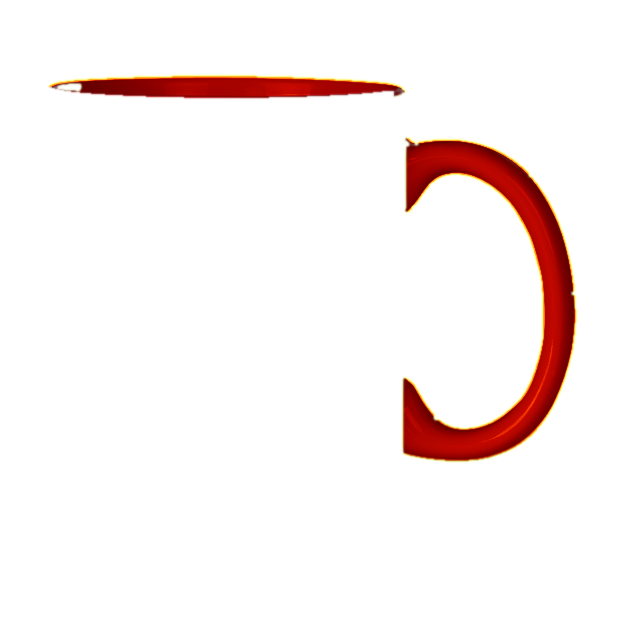
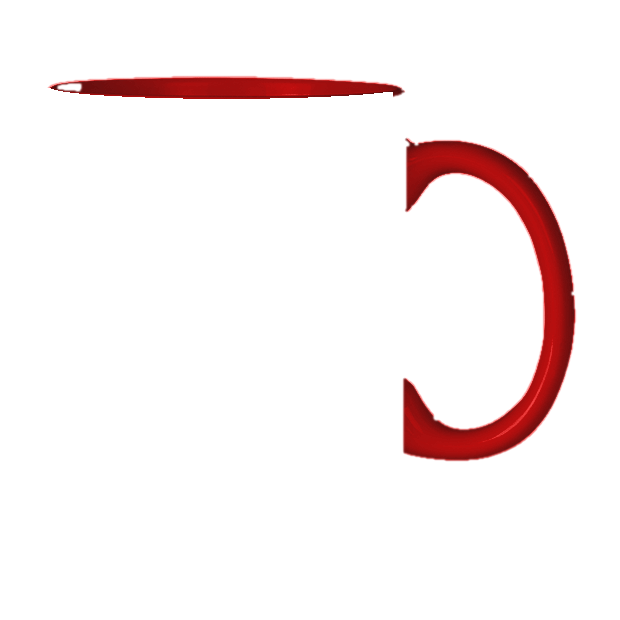
Mug colours: clean, soft-edged handle and inside fill using the shading of Printrove's coloured-mug photo
Claude-Session: https://claude.ai/code/session_01EaxmJeYfT8MoGaNTYhuNX2

diff --git a/team/index.html b/team/index.html
@@ -144,5 +144,5 @@ Anita: Thank you for an amazing year!"></textarea>
 </body>
 </html>
 <script>window.NV_TRAITS = [{"k": "coffee", "l": "Coffee lover", "svg": "<path d=\"M10 2v2\" /> <path d=\"M14 2v2\" /> <path d=\"M16 8a1 1 0 0 1 1 1v8a4 4 0 0 1-4 4H7a4 4 0 0 1-4-4V9a1 1 0 0 1 1-1h14a4 4 0 1 1 0 8h-1\" /> <path d=\"M6 2v2\" />"}, {"k": "cup-soda", "l": "Chai person", "svg": "<path d=\"m6 8 1.75 12.28a2 2 0 0 0 2 1.72h4.54a2 2 0 0 0 2-1.72L18 8\" /> <path d=\"M5 8h14\" /> <path d=\"M7 15a6.47 6.47 0 0 1 5 0 6.47 6.47 0 0 0 5 0\" /> <path d=\"m12 8 1-6h2\" />"}, {"k": "plane", "l": "Traveller", "svg": "<path d=\"M17.8 19.2 16 11l3.5-3.5C21 6 21.5 4 21 3c-1-.5-3 0-4.5 1.5L13 8 4.8 6.2c-.5-.1-.9.1-1.1.5l-.3.5c-.2.5-.1 1 .3 1.3L9 12l-2 3H4l-1 1 3 2 2 3 1-1v-3l3-2 3.5 5.3c.3.4.8.5 1.3.3l.5-.2c.4-.3.6-.7.5-1.2z\" />"}, {"k": "mountain", "l": "Hiker", "svg": "<path d=\"m8 3 4 8 5-5 5 15H2L8 3z\" />"}, {"k": "dog", "l": "Dog parent", "svg": "<path d=\"M11.25 16.25h1.5L12 17z\" /> <path d=\"M16 14v.5\" /> <path d=\"M4.42 11.247A13.152 13.152 0 0 0 4 14.556C4 18.728 7.582 21 12 21s8-2.272 8-6.444a11.702 11.702 0 0 0-.493-3.309\" /> <path d=\"M8 14v.5\" /> <path d=\"M8.5 8.5c-.384 1.05-1.083 2.028-2.344 2.5-1.931.722-3.576-.297-3.656-1-.113-.994 1.177-6.53 4-7 1.923-.321 3.651.845 3.651 2.235A7.497 7.497 0 0 1 14 5.277c0-1.39 1.844-2.598 3.767-2.277 2.823.47 4.113 6.006 4 7-.08.703-1.725 1.722-3.656 1-1.261-.472-1.855-1.45-2.239-2.5\" />"}, {"k": "cat", "l": "Cat parent", "svg": "<path d=\"M12 5c.67 0 1.35.09 2 .26 1.78-2 5.03-2.84 6.42-2.26 1.4.58-.42 7-.42 7 .57 1.07 1 2.24 1 3.44C21 17.9 16.97 21 12 21s-9-3-9-7.56c0-1.25.5-2.4 1-3.44 0 0-1.89-6.42-.5-7 1.39-.58 4.72.23 6.5 2.23A9.04 9.04 0 0 1 12 5Z\" /> <path d=\"M8 14v.5\" /> <path d=\"M16 14v.5\" /> <path d=\"M11.25 16.25h1.5L12 17l-.75-.75Z\" />"}, {"k": "book-open", "l": "Bookworm", "svg": "<path d=\"M12 5v16\" /> <path d=\"M20.001 19A2 2 0 0022 17V5a2 2 0 00-1.999-2L16 3.002A5 5 0 0012 5a5 5 0 00-4-2H4a2 2 0 00-2 2v12a2 2 0 001.999 2H8a5 5 0 014 2 5 5 0 014-2z\" />"}, {"k": "gamepad-2", "l": "Gamer", "svg": "<line x1=\"6\" x2=\"10\" y1=\"11\" y2=\"11\" /> <line x1=\"8\" x2=\"8\" y1=\"9\" y2=\"13\" /> <line x1=\"15\" x2=\"15.01\" y1=\"12\" y2=\"12\" /> <line x1=\"18\" x2=\"18.01\" y1=\"10\" y2=\"10\" /> <path d=\"M17.32 5H6.68a4 4 0 0 0-3.978 3.59c-.006.052-.01.101-.017.152C2.604 9.416 2 14.456 2 16a3 3 0 0 0 3 3c1 0 1.5-.5 2-1l1.414-1.414A2 2 0 0 1 9.828 16h4.344a2 2 0 0 1 1.414.586L17 18c.5.5 1 1 2 1a3 3 0 0 0 3-3c0-1.545-.604-6.584-.685-7.258-.007-.05-.011-.1-.017-.151A4 4 0 0 0 17.32 5z\" />"}, {"k": "music", "l": "Music lover", "svg": "<path d=\"M21 16V3a1 1 0 0 0-1.28-.96l-10 2.917a1 1 0 0 0-.72.96V19\" /> <circle cx=\"18\" cy=\"16\" r=\"3\" /> <circle cx=\"6\" cy=\"19\" r=\"3\" />"}, {"k": "headphones", "l": "Podcast fan", "svg": "<path d=\"M3 14h3a2 2 0 0 1 2 2v3a2 2 0 0 1-2 2H5a2 2 0 0 1-2-2v-7a9 9 0 0 1 18 0v7a2 2 0 0 1-2 2h-1a2 2 0 0 1-2-2v-3a2 2 0 0 1 2-2h3\" />"}, {"k": "guitar", "l": "Musician", "svg": "<path d=\"m11.9 12.1 4.514-4.514\" /> <path d=\"M20.1 2.3a1 1 0 0 0-1.4 0l-1.114 1.114A2 2 0 0 0 17 4.828v1.344a2 2 0 0 1-.586 1.414A2 2 0 0 1 17.828 7h1.344a2 2 0 0 0 1.414-.586L21.7 5.3a1 1 0 0 0 0-1.4z\" /> <path d=\"m6 16 2 2\" /> <path d=\"M8.23 9.85A3 3 0 0 1 11 8a5 5 0 0 1 5 5 3 3 0 0 1-1.85 2.77l-.92.38A2 2 0 0 0 12 18a4 4 0 0 1-4 4 6 6 0 0 1-6-6 4 4 0 0 1 4-4 2 2 0 0 0 1.85-1.23z\" />"}, {"k": "dumbbell", "l": "Gym regular", "svg": "<path d=\"M17.596 12.768a2 2 0 1 0 2.829-2.829l-1.768-1.767a2 2 0 0 0 2.828-2.829l-2.828-2.828a2 2 0 0 0-2.829 2.828l-1.767-1.768a2 2 0 1 0-2.829 2.829z\" /> <path d=\"m2.5 21.5 1.4-1.4\" /> <path d=\"m20.1 3.9 1.4-1.4\" /> <path d=\"M5.343 21.485a2 2 0 1 0 2.829-2.828l1.767 1.768a2 2 0 1 0 2.829-2.829l-6.364-6.364a2 2 0 1 0-2.829 2.829l1.768 1.767a2 2 0 0 0-2.828 2.829z\" /> <path d=\"m9.6 14.4 4.8-4.8\" />"}, {"k": "bike", "l": "Cyclist", "svg": "<circle cx=\"18.5\" cy=\"17.5\" r=\"3.5\" /> <circle cx=\"5.5\" cy=\"17.5\" r=\"3.5\" /> <circle cx=\"15\" cy=\"5\" r=\"1\" /> <path d=\"M12 17.5V14l-3-3 4-3 2 3h2\" />"}, {"k": "footprints", "l": "Runner", "svg": "<path d=\"M4 16v-2.38C4 11.5 2.97 10.5 3 8c.03-2.72 1.49-6 4.5-6C9.37 2 10 3.8 10 5.5c0 3.11-2 5.66-2 8.68V16a2 2 0 1 1-4 0Z\" /> <path d=\"M20 20v-2.38c0-2.12 1.03-3.12 1-5.62-.03-2.72-1.49-6-4.5-6C14.63 6 14 7.8 14 9.5c0 3.11 2 5.66 2 8.68V20a2 2 0 1 0 4 0Z\" /> <path d=\"M16 17h4\" /> <path d=\"M4 13h4\" />"}, {"k": "volleyball", "l": "Sports fan", "svg": "<path d=\"M11 7a16 16 20 0 1 10.98 4.362\" /> <path d=\"M12 12a13 13 0 0 1-8.66 5\" /> <path d=\"M16.83 13.634a16 16 0 0 1-9.267 7.328\" /> <path d=\"M20.66 17A13 13 0 0 0 12 12a13 13 0 0 1 0-10\" /> <path d=\"M8.17 15.366a16 16 0 0 1-1.713-11.69\" /> <circle cx=\"12\" cy=\"12\" r=\"10\" />"}, {"k": "trophy", "l": "Champion", "svg": "<path d=\"M10 14.66V17a1 1 0 0 1-1 1 2 2 0 0 0-2 2v2\" /> <path d=\"M14 14.66V17a1 1 0 0 0 1 1 2 2 0 0 1 2 2v2\" /> <path d=\"M17.916 10H19.5A2.5 2.5 0 0 0 22 7.5V5a1 1 0 0 0-1-1h-3\" /> <path d=\"M4 22h16\" /> <path d=\"M6 9a6 6 0 0 0 12 0V3a1 1 0 0 0-1-1H7a1 1 0 0 0-1 1z\" /> <path d=\"M6.084 10H4.5A2.5 2.5 0 0 1 2 7.5V5a1 1 0 0 1 1-1h3\" />"}, {"k": "sprout", "l": "Plant parent", "svg": "<path d=\"M14 9.536V7a4 4 0 0 1 4-4h1.5a.5.5 0 0 1 .5.5V5a4 4 0 0 1-4 4 4 4 0 0 0-4 4c0 2 1 3 1 5a5 5 0 0 1-1 3\" /> <path d=\"M4 9a5 5 0 0 1 8 4 5 5 0 0 1-8-4\" /> <path d=\"M5 21h14\" />"}, {"k": "camera", "l": "Photographer", "svg": "<path d=\"M13.997 4a2 2 0 0 1 1.76 1.05l.486.9A2 2 0 0 0 18.003 7H20a2 2 0 0 1 2 2v9a2 2 0 0 1-2 2H4a2 2 0 0 1-2-2V9a2 2 0 0 1 2-2h1.997a2 2 0 0 0 1.759-1.048l.489-.904A2 2 0 0 1 10.004 4z\" /> <circle cx=\"12\" cy=\"13\" r=\"3\" />"}, {"k": "code", "l": "Coder", "svg": "<path d=\"m16 18 6-6-6-6\" /> <path d=\"m8 6-6 6 6 6\" />"}, {"k": "palette", "l": "Creative", "svg": "<path d=\"M12 22a1 1 0 0 1 0-20 10 9 0 0 1 10 9 5 5 0 0 1-5 5h-2.25a1.75 1.75 0 0 0-1.4 2.8l.3.4a1.75 1.75 0 0 1-1.4 2.8z\" /> <circle cx=\"13.5\" cy=\"6.5\" r=\".5\" fill=\"currentColor\" /> <circle cx=\"17.5\" cy=\"10.5\" r=\".5\" fill=\"currentColor\" /> <circle cx=\"6.5\" cy=\"12.5\" r=\".5\" fill=\"currentColor\" /> <circle cx=\"8.5\" cy=\"7.5\" r=\".5\" fill=\"currentColor\" />"}, {"k": "chef-hat", "l": "Foodie", "svg": "<path d=\"M10 11v5\" /> <path d=\"M14 11v5\" /> <path d=\"M6 12.65c0-.457-.316-.844-.727-1.041A4 4 0 017.52 4.034a1.53 1.53 0 001.367-.547 4 4 0 016.225 0 1.53 1.53 0 001.367.547 4 4 0 012.248 7.575c-.411.197-.727.584-.727 1.04V19a2 2 0 01-2 2H8a2 2 0 01-2-2z\" /> <path d=\"M6 16h12\" />"}, {"k": "pizza", "l": "Pizza lover", "svg": "<path d=\"m12 14-1 1\" /> <path d=\"m13.75 18.25-1.25 1.42\" /> <path d=\"M17.775 5.654a15.68 15.68 0 0 0-12.121 12.12\" /> <path d=\"M18.8 9.3a1 1 0 0 0 2.1 7.7\" /> <path d=\"M21.964 20.732a1 1 0 0 1-1.232 1.232l-18-5a1 1 0 0 1-.695-1.232A19.68 19.68 0 0 1 15.732 2.037a1 1 0 0 1 1.232.695z\" />"}, {"k": "wine", "l": "Party starter", "svg": "<path d=\"M8 22h8\" /> <path d=\"M7 10h10\" /> <path d=\"M12 15v7\" /> <path d=\"M12 15a5 5 0 0 0 5-5c0-2-.5-4-2-8H9c-1.5 4-2 6-2 8a5 5 0 0 0 5 5Z\" />"}, {"k": "film", "l": "Movie buff", "svg": "<rect width=\"18\" height=\"18\" x=\"3\" y=\"3\" rx=\"2\" /> <path d=\"M7 3v18\" /> <path d=\"M3 7.5h4\" /> <path d=\"M3 12h18\" /> <path d=\"M3 16.5h4\" /> <path d=\"M17 3v18\" /> <path d=\"M17 7.5h4\" /> <path d=\"M17 16.5h4\" />"}, {"k": "moon", "l": "Night owl", "svg": "<path d=\"M20.985 12.486a9 9 0 1 1-9.473-9.472c.405-.022.617.46.402.803a6 6 0 0 0 8.268 8.268c.344-.215.825-.004.803.401\" />"}, {"k": "sun", "l": "Early bird", "svg": "<circle cx=\"12\" cy=\"12\" r=\"4\" /> <path d=\"M12 2v2\" /> <path d=\"M12 20v2\" /> <path d=\"m4.93 4.93 1.41 1.41\" /> <path d=\"m17.66 17.66 1.41 1.41\" /> <path d=\"M2 12h2\" /> <path d=\"M20 12h2\" /> <path d=\"m6.34 17.66-1.41 1.41\" /> <path d=\"m19.07 4.93-1.41 1.41\" />"}, {"k": "briefcase", "l": "Hustler", "svg": "<path d=\"M16 20V4a2 2 0 0 0-2-2h-4a2 2 0 0 0-2 2v16\" /> <rect width=\"20\" height=\"14\" x=\"2\" y=\"6\" rx=\"2\" />"}, {"k": "brain", "l": "Big thinker", "svg": "<path d=\"M12 18V5\" /> <path d=\"M15 13a4.17 4.17 0 01-3-4 4.17 4.17 0 01-3 4\" /> <path d=\"M17.707 6.294A3 3 0 1012 5a3 3 0 10-5.707 1.294\" /> <path d=\"M17.996 5.125a4 4 0 012.526 5.77\" /> <path d=\"M18 18a4 4 0 002-7.465\" /> <path d=\"M19.967 17.482a4 4 0 11-7.967.517 4 4 0 11-7.967-.517\" /> <path d=\"M6 18a4 4 0 01-2-7.465\" /> <path d=\"M6.004 5.125a4 4 0 00-2.526 5.77\" />"}, {"k": "rocket", "l": "Go-getter", "svg": "<path d=\"M12 15v5s3.03-.55 4-2c1.08-1.62 0-5 0-5\" /> <path d=\"M4.5 16.5c-1.5 1.26-2 5-2 5s3.74-.5 5-2c.71-.84.7-2.13-.09-2.91a2.18 2.18 0 0 0-2.91-.09\" /> <path d=\"M9 12a22 22 0 0 1 2-3.95A12.88 12.88 0 0 1 22 2c0 2.72-.78 7.5-6 11a22.4 22.4 0 0 1-4 2z\" /> <path d=\"M9 12H4s.55-3.03 2-4c1.62-1.08 5 .05 5 .05\" />"}, {"k": "laugh", "l": "Funny one", "svg": "<path d=\"M15 10V9\" /> <path d=\"M7.084 14.302a5.12 5.12 0 009.833 0 .24.24 0 00-.235-.302H7.32a.24.24 0 00-.235.302\" /> <path d=\"M9 10V9\" /> <circle cx=\"12\" cy=\"12\" r=\"10\" />"}, {"k": "heart", "l": "Big heart", "svg": "<path d=\"M2 9.5a5.5 5.5 0 0 1 9.591-3.676.56.56 0 0 0 .818 0A5.49 5.49 0 0 1 22 9.5c0 2.29-1.5 4-3 5.5l-5.492 5.313a2 2 0 0 1-3 .019L5 15c-1.5-1.5-3-3.2-3-5.5\" />"}, {"k": "smile", "l": "Optimist", "svg": "<path d=\"M15 10V9\" /> <path d=\"M16.472 15a6 6 0 01-8.943 0\" /> <path d=\"M9 10V9\" /> <circle cx=\"12\" cy=\"12\" r=\"10\" />"}, {"k": "baby", "l": "New parent", "svg": "<path d=\"M10 16c.5.3 1.2.5 2 .5s1.5-.2 2-.5\" /> <path d=\"M15 12h.01\" /> <path d=\"M19.38 6.813A9 9 0 0 1 20.8 10.2a2 2 0 0 1 0 3.6 9 9 0 0 1-17.6 0 2 2 0 0 1 0-3.6A9 9 0 0 1 12 3c2 0 3.5 1.1 3.5 2.5s-.9 2.5-2 2.5c-.8 0-1.5-.4-1.5-1\" /> <path d=\"M9 12h.01\" />"}, {"k": "graduation-cap", "l": "Lifelong learner", "svg": "<path d=\"M21.42 10.922a1 1 0 0 0-.019-1.838L12.83 5.18a2 2 0 0 0-1.66 0L2.6 9.08a1 1 0 0 0 0 1.832l8.57 3.908a2 2 0 0 0 1.66 0z\" /> <path d=\"M22 10v6\" /> <path d=\"M6 12.5V16a6 3 0 0 0 12 0v-3.5\" />"}, {"k": "stethoscope", "l": "Healer", "svg": "<path d=\"M11 2v2\" /> <path d=\"M5 2v2\" /> <path d=\"M5 3H4a2 2 0 0 0-2 2v4a6 6 0 0 0 12 0V5a2 2 0 0 0-2-2h-1\" /> <path d=\"M8 15a6 6 0 0 0 12 0v-3\" /> <circle cx=\"20\" cy=\"10\" r=\"2\" />"}, {"k": "tent", "l": "Explorer", "svg": "<path d=\"M3.5 21 14 3\" /> <path d=\"M20.5 21 10 3\" /> <path d=\"M15.5 21 12 15l-3.5 6\" /> <path d=\"M2 21h20\" />"}]; window.NV_TEAM = {"tiers":[[25,379],[50,349],[100,319]],"small":519,"wa":"919880000990","api":""};</script>
-<script defer src="/assets/mugdesign.js?v=757e830b"></script>
+<script defer src="/assets/mugdesign.js?v=9beb7631"></script>
 <script defer src="/assets/team.js?v=6e60c9ab"></script>

diff --git a/custom-mug/index.html b/custom-mug/index.html
@@ -122,5 +122,5 @@
 </body>
 </html>
 <script>window.NV_TRAITS = [{"k": "coffee", "l": "Coffee lover", "svg": "<path d=\"M10 2v2\" /> <path d=\"M14 2v2\" /> <path d=\"M16 8a1 1 0 0 1 1 1v8a4 4 0 0 1-4 4H7a4 4 0 0 1-4-4V9a1 1 0 0 1 1-1h14a4 4 0 1 1 0 8h-1\" /> <path d=\"M6 2v2\" />"}, {"k": "cup-soda", "l": "Chai person", "svg": "<path d=\"m6 8 1.75 12.28a2 2 0 0 0 2 1.72h4.54a2 2 0 0 0 2-1.72L18 8\" /> <path d=\"M5 8h14\" /> <path d=\"M7 15a6.47 6.47 0 0 1 5 0 6.47 6.47 0 0 0 5 0\" /> <path d=\"m12 8 1-6h2\" />"}, {"k": "plane", "l": "Traveller", "svg": "<path d=\"M17.8 19.2 16 11l3.5-3.5C21 6 21.5 4 21 3c-1-.5-3 0-4.5 1.5L13 8 4.8 6.2c-.5-.1-.9.1-1.1.5l-.3.5c-.2.5-.1 1 .3 1.3L9 12l-2 3H4l-1 1 3 2 2 3 1-1v-3l3-2 3.5 5.3c.3.4.8.5 1.3.3l.5-.2c.4-.3.6-.7.5-1.2z\" />"}, {"k": "mountain", "l": "Hiker", "svg": "<path d=\"m8 3 4 8 5-5 5 15H2L8 3z\" />"}, {"k": "dog", "l": "Dog parent", "svg": "<path d=\"M11.25 16.25h1.5L12 17z\" /> <path d=\"M16 14v.5\" /> <path d=\"M4.42 11.247A13.152 13.152 0 0 0 4 14.556C4 18.728 7.582 21 12 21s8-2.272 8-6.444a11.702 11.702 0 0 0-.493-3.309\" /> <path d=\"M8 14v.5\" /> <path d=\"M8.5 8.5c-.384 1.05-1.083 2.028-2.344 2.5-1.931.722-3.576-.297-3.656-1-.113-.994 1.177-6.53 4-7 1.923-.321 3.651.845 3.651 2.235A7.497 7.497 0 0 1 14 5.277c0-1.39 1.844-2.598 3.767-2.277 2.823.47 4.113 6.006 4 7-.08.703-1.725 1.722-3.656 1-1.261-.472-1.855-1.45-2.239-2.5\" />"}, {"k": "cat", "l": "Cat parent", "svg": "<path d=\"M12 5c.67 0 1.35.09 2 .26 1.78-2 5.03-2.84 6.42-2.26 1.4.58-.42 7-.42 7 .57 1.07 1 2.24 1 3.44C21 17.9 16.97 21 12 21s-9-3-9-7.56c0-1.25.5-2.4 1-3.44 0 0-1.89-6.42-.5-7 1.39-.58 4.72.23 6.5 2.23A9.04 9.04 0 0 1 12 5Z\" /> <path d=\"M8 14v.5\" /> <path d=\"M16 14v.5\" /> <path d=\"M11.25 16.25h1.5L12 17l-.75-.75Z\" />"}, {"k": "book-open", "l": "Bookworm", "svg": "<path d=\"M12 5v16\" /> <path d=\"M20.001 19A2 2 0 0022 17V5a2 2 0 00-1.999-2L16 3.002A5 5 0 0012 5a5 5 0 00-4-2H4a2 2 0 00-2 2v12a2 2 0 001.999 2H8a5 5 0 014 2 5 5 0 014-2z\" />"}, {"k": "gamepad-2", "l": "Gamer", "svg": "<line x1=\"6\" x2=\"10\" y1=\"11\" y2=\"11\" /> <line x1=\"8\" x2=\"8\" y1=\"9\" y2=\"13\" /> <line x1=\"15\" x2=\"15.01\" y1=\"12\" y2=\"12\" /> <line x1=\"18\" x2=\"18.01\" y1=\"10\" y2=\"10\" /> <path d=\"M17.32 5H6.68a4 4 0 0 0-3.978 3.59c-.006.052-.01.101-.017.152C2.604 9.416 2 14.456 2 16a3 3 0 0 0 3 3c1 0 1.5-.5 2-1l1.414-1.414A2 2 0 0 1 9.828 16h4.344a2 2 0 0 1 1.414.586L17 18c.5.5 1 1 2 1a3 3 0 0 0 3-3c0-1.545-.604-6.584-.685-7.258-.007-.05-.011-.1-.017-.151A4 4 0 0 0 17.32 5z\" />"}, {"k": "music", "l": "Music lover", "svg": "<path d=\"M21 16V3a1 1 0 0 0-1.28-.96l-10 2.917a1 1 0 0 0-.72.96V19\" /> <circle cx=\"18\" cy=\"16\" r=\"3\" /> <circle cx=\"6\" cy=\"19\" r=\"3\" />"}, {"k": "headphones", "l": "Podcast fan", "svg": "<path d=\"M3 14h3a2 2 0 0 1 2 2v3a2 2 0 0 1-2 2H5a2 2 0 0 1-2-2v-7a9 9 0 0 1 18 0v7a2 2 0 0 1-2 2h-1a2 2 0 0 1-2-2v-3a2 2 0 0 1 2-2h3\" />"}, {"k": "guitar", "l": "Musician", "svg": "<path d=\"m11.9 12.1 4.514-4.514\" /> <path d=\"M20.1 2.3a1 1 0 0 0-1.4 0l-1.114 1.114A2 2 0 0 0 17 4.828v1.344a2 2 0 0 1-.586 1.414A2 2 0 0 1 17.828 7h1.344a2 2 0 0 0 1.414-.586L21.7 5.3a1 1 0 0 0 0-1.4z\" /> <path d=\"m6 16 2 2\" /> <path d=\"M8.23 9.85A3 3 0 0 1 11 8a5 5 0 0 1 5 5 3 3 0 0 1-1.85 2.77l-.92.38A2 2 0 0 0 12 18a4 4 0 0 1-4 4 6 6 0 0 1-6-6 4 4 0 0 1 4-4 2 2 0 0 0 1.85-1.23z\" />"}, {"k": "dumbbell", "l": "Gym regular", "svg": "<path d=\"M17.596 12.768a2 2 0 1 0 2.829-2.829l-1.768-1.767a2 2 0 0 0 2.828-2.829l-2.828-2.828a2 2 0 0 0-2.829 2.828l-1.767-1.768a2 2 0 1 0-2.829 2.829z\" /> <path d=\"m2.5 21.5 1.4-1.4\" /> <path d=\"m20.1 3.9 1.4-1.4\" /> <path d=\"M5.343 21.485a2 2 0 1 0 2.829-2.828l1.767 1.768a2 2 0 1 0 2.829-2.829l-6.364-6.364a2 2 0 1 0-2.829 2.829l1.768 1.767a2 2 0 0 0-2.828 2.829z\" /> <path d=\"m9.6 14.4 4.8-4.8\" />"}, {"k": "bike", "l": "Cyclist", "svg": "<circle cx=\"18.5\" cy=\"17.5\" r=\"3.5\" /> <circle cx=\"5.5\" cy=\"17.5\" r=\"3.5\" /> <circle cx=\"15\" cy=\"5\" r=\"1\" /> <path d=\"M12 17.5V14l-3-3 4-3 2 3h2\" />"}, {"k": "footprints", "l": "Runner", "svg": "<path d=\"M4 16v-2.38C4 11.5 2.97 10.5 3 8c.03-2.72 1.49-6 4.5-6C9.37 2 10 3.8 10 5.5c0 3.11-2 5.66-2 8.68V16a2 2 0 1 1-4 0Z\" /> <path d=\"M20 20v-2.38c0-2.12 1.03-3.12 1-5.62-.03-2.72-1.49-6-4.5-6C14.63 6 14 7.8 14 9.5c0 3.11 2 5.66 2 8.68V20a2 2 0 1 0 4 0Z\" /> <path d=\"M16 17h4\" /> <path d=\"M4 13h4\" />"}, {"k": "volleyball", "l": "Sports fan", "svg": "<path d=\"M11 7a16 16 20 0 1 10.98 4.362\" /> <path d=\"M12 12a13 13 0 0 1-8.66 5\" /> <path d=\"M16.83 13.634a16 16 0 0 1-9.267 7.328\" /> <path d=\"M20.66 17A13 13 0 0 0 12 12a13 13 0 0 1 0-10\" /> <path d=\"M8.17 15.366a16 16 0 0 1-1.713-11.69\" /> <circle cx=\"12\" cy=\"12\" r=\"10\" />"}, {"k": "trophy", "l": "Champion", "svg": "<path d=\"M10 14.66V17a1 1 0 0 1-1 1 2 2 0 0 0-2 2v2\" /> <path d=\"M14 14.66V17a1 1 0 0 0 1 1 2 2 0 0 1 2 2v2\" /> <path d=\"M17.916 10H19.5A2.5 2.5 0 0 0 22 7.5V5a1 1 0 0 0-1-1h-3\" /> <path d=\"M4 22h16\" /> <path d=\"M6 9a6 6 0 0 0 12 0V3a1 1 0 0 0-1-1H7a1 1 0 0 0-1 1z\" /> <path d=\"M6.084 10H4.5A2.5 2.5 0 0 1 2 7.5V5a1 1 0 0 1 1-1h3\" />"}, {"k": "sprout", "l": "Plant parent", "svg": "<path d=\"M14 9.536V7a4 4 0 0 1 4-4h1.5a.5.5 0 0 1 .5.5V5a4 4 0 0 1-4 4 4 4 0 0 0-4 4c0 2 1 3 1 5a5 5 0 0 1-1 3\" /> <path d=\"M4 9a5 5 0 0 1 8 4 5 5 0 0 1-8-4\" /> <path d=\"M5 21h14\" />"}, {"k": "camera", "l": "Photographer", "svg": "<path d=\"M13.997 4a2 2 0 0 1 1.76 1.05l.486.9A2 2 0 0 0 18.003 7H20a2 2 0 0 1 2 2v9a2 2 0 0 1-2 2H4a2 2 0 0 1-2-2V9a2 2 0 0 1 2-2h1.997a2 2 0 0 0 1.759-1.048l.489-.904A2 2 0 0 1 10.004 4z\" /> <circle cx=\"12\" cy=\"13\" r=\"3\" />"}, {"k": "code", "l": "Coder", "svg": "<path d=\"m16 18 6-6-6-6\" /> <path d=\"m8 6-6 6 6 6\" />"}, {"k": "palette", "l": "Creative", "svg": "<path d=\"M12 22a1 1 0 0 1 0-20 10 9 0 0 1 10 9 5 5 0 0 1-5 5h-2.25a1.75 1.75 0 0 0-1.4 2.8l.3.4a1.75 1.75 0 0 1-1.4 2.8z\" /> <circle cx=\"13.5\" cy=\"6.5\" r=\".5\" fill=\"currentColor\" /> <circle cx=\"17.5\" cy=\"10.5\" r=\".5\" fill=\"currentColor\" /> <circle cx=\"6.5\" cy=\"12.5\" r=\".5\" fill=\"currentColor\" /> <circle cx=\"8.5\" cy=\"7.5\" r=\".5\" fill=\"currentColor\" />"}, {"k": "chef-hat", "l": "Foodie", "svg": "<path d=\"M10 11v5\" /> <path d=\"M14 11v5\" /> <path d=\"M6 12.65c0-.457-.316-.844-.727-1.041A4 4 0 017.52 4.034a1.53 1.53 0 001.367-.547 4 4 0 016.225 0 1.53 1.53 0 001.367.547 4 4 0 012.248 7.575c-.411.197-.727.584-.727 1.04V19a2 2 0 01-2 2H8a2 2 0 01-2-2z\" /> <path d=\"M6 16h12\" />"}, {"k": "pizza", "l": "Pizza lover", "svg": "<path d=\"m12 14-1 1\" /> <path d=\"m13.75 18.25-1.25 1.42\" /> <path d=\"M17.775 5.654a15.68 15.68 0 0 0-12.121 12.12\" /> <path d=\"M18.8 9.3a1 1 0 0 0 2.1 7.7\" /> <path d=\"M21.964 20.732a1 1 0 0 1-1.232 1.232l-18-5a1 1 0 0 1-.695-1.232A19.68 19.68 0 0 1 15.732 2.037a1 1 0 0 1 1.232.695z\" />"}, {"k": "wine", "l": "Party starter", "svg": "<path d=\"M8 22h8\" /> <path d=\"M7 10h10\" /> <path d=\"M12 15v7\" /> <path d=\"M12 15a5 5 0 0 0 5-5c0-2-.5-4-2-8H9c-1.5 4-2 6-2 8a5 5 0 0 0 5 5Z\" />"}, {"k": "film", "l": "Movie buff", "svg": "<rect width=\"18\" height=\"18\" x=\"3\" y=\"3\" rx=\"2\" /> <path d=\"M7 3v18\" /> <path d=\"M3 7.5h4\" /> <path d=\"M3 12h18\" /> <path d=\"M3 16.5h4\" /> <path d=\"M17 3v18\" /> <path d=\"M17 7.5h4\" /> <path d=\"M17 16.5h4\" />"}, {"k": "moon", "l": "Night owl", "svg": "<path d=\"M20.985 12.486a9 9 0 1 1-9.473-9.472c.405-.022.617.46.402.803a6 6 0 0 0 8.268 8.268c.344-.215.825-.004.803.401\" />"}, {"k": "sun", "l": "Early bird", "svg": "<circle cx=\"12\" cy=\"12\" r=\"4\" /> <path d=\"M12 2v2\" /> <path d=\"M12 20v2\" /> <path d=\"m4.93 4.93 1.41 1.41\" /> <path d=\"m17.66 17.66 1.41 1.41\" /> <path d=\"M2 12h2\" /> <path d=\"M20 12h2\" /> <path d=\"m6.34 17.66-1.41 1.41\" /> <path d=\"m19.07 4.93-1.41 1.41\" />"}, {"k": "briefcase", "l": "Hustler", "svg": "<path d=\"M16 20V4a2 2 0 0 0-2-2h-4a2 2 0 0 0-2 2v16\" /> <rect width=\"20\" height=\"14\" x=\"2\" y=\"6\" rx=\"2\" />"}, {"k": "brain", "l": "Big thinker", "svg": "<path d=\"M12 18V5\" /> <path d=\"M15 13a4.17 4.17 0 01-3-4 4.17 4.17 0 01-3 4\" /> <path d=\"M17.707 6.294A3 3 0 1012 5a3 3 0 10-5.707 1.294\" /> <path d=\"M17.996 5.125a4 4 0 012.526 5.77\" /> <path d=\"M18 18a4 4 0 002-7.465\" /> <path d=\"M19.967 17.482a4 4 0 11-7.967.517 4 4 0 11-7.967-.517\" /> <path d=\"M6 18a4 4 0 01-2-7.465\" /> <path d=\"M6.004 5.125a4 4 0 00-2.526 5.77\" />"}, {"k": "rocket", "l": "Go-getter", "svg": "<path d=\"M12 15v5s3.03-.55 4-2c1.08-1.62 0-5 0-5\" /> <path d=\"M4.5 16.5c-1.5 1.26-2 5-2 5s3.74-.5 5-2c.71-.84.7-2.13-.09-2.91a2.18 2.18 0 0 0-2.91-.09\" /> <path d=\"M9 12a22 22 0 0 1 2-3.95A12.88 12.88 0 0 1 22 2c0 2.72-.78 7.5-6 11a22.4 22.4 0 0 1-4 2z\" /> <path d=\"M9 12H4s.55-3.03 2-4c1.62-1.08 5 .05 5 .05\" />"}, {"k": "laugh", "l": "Funny one", "svg": "<path d=\"M15 10V9\" /> <path d=\"M7.084 14.302a5.12 5.12 0 009.833 0 .24.24 0 00-.235-.302H7.32a.24.24 0 00-.235.302\" /> <path d=\"M9 10V9\" /> <circle cx=\"12\" cy=\"12\" r=\"10\" />"}, {"k": "heart", "l": "Big heart", "svg": "<path d=\"M2 9.5a5.5 5.5 0 0 1 9.591-3.676.56.56 0 0 0 .818 0A5.49 5.49 0 0 1 22 9.5c0 2.29-1.5 4-3 5.5l-5.492 5.313a2 2 0 0 1-3 .019L5 15c-1.5-1.5-3-3.2-3-5.5\" />"}, {"k": "smile", "l": "Optimist", "svg": "<path d=\"M15 10V9\" /> <path d=\"M16.472 15a6 6 0 01-8.943 0\" /> <path d=\"M9 10V9\" /> <circle cx=\"12\" cy=\"12\" r=\"10\" />"}, {"k": "baby", "l": "New parent", "svg": "<path d=\"M10 16c.5.3 1.2.5 2 .5s1.5-.2 2-.5\" /> <path d=\"M15 12h.01\" /> <path d=\"M19.38 6.813A9 9 0 0 1 20.8 10.2a2 2 0 0 1 0 3.6 9 9 0 0 1-17.6 0 2 2 0 0 1 0-3.6A9 9 0 0 1 12 3c2 0 3.5 1.1 3.5 2.5s-.9 2.5-2 2.5c-.8 0-1.5-.4-1.5-1\" /> <path d=\"M9 12h.01\" />"}, {"k": "graduation-cap", "l": "Lifelong learner", "svg": "<path d=\"M21.42 10.922a1 1 0 0 0-.019-1.838L12.83 5.18a2 2 0 0 0-1.66 0L2.6 9.08a1 1 0 0 0 0 1.832l8.57 3.908a2 2 0 0 0 1.66 0z\" /> <path d=\"M22 10v6\" /> <path d=\"M6 12.5V16a6 3 0 0 0 12 0v-3.5\" />"}, {"k": "stethoscope", "l": "Healer", "svg": "<path d=\"M11 2v2\" /> <path d=\"M5 2v2\" /> <path d=\"M5 3H4a2 2 0 0 0-2 2v4a6 6 0 0 0 12 0V5a2 2 0 0 0-2-2h-1\" /> <path d=\"M8 15a6 6 0 0 0 12 0v-3\" /> <circle cx=\"20\" cy=\"10\" r=\"2\" />"}, {"k": "tent", "l": "Explorer", "svg": "<path d=\"M3.5 21 14 3\" /> <path d=\"M20.5 21 10 3\" /> <path d=\"M15.5 21 12 15l-3.5 6\" /> <path d=\"M2 21h20\" />"}];</script>
-<script defer src="/assets/mugdesign.js?v=757e830b"></script>
+<script defer src="/assets/mugdesign.js?v=9beb7631"></script>
 <script defer src="/assets/custom-mug.js?v=f361d117"></script>

diff --git a/_build/custommug/mugdesign.js b/_build/custommug/mugdesign.js
@@ -134,7 +134,7 @@
       return Promise.all([loadImg("/assets/custommug/mug-" + v + ".jpg"), loadImg("/assets/custommug/map-" + v + "-s.png"), loadImg("/assets/custommug/map-" + v + "-v.png"), loadImg("/assets/custommug/tint-" + v + ".png")]).then(function (r) {
         var base = pixels(r[0]), ms = pixels(r[1]), mv = pixels(r[2]), tn = pixels(r[3]), n = 620 * 620, S = new Float32Array(n), V = new Float32Array(n), E = new Float32Array(n);
         for (var i = 0; i < n; i++) { S[i] = (ms[i * 4] * 256 + ms[i * 4 + 1]) / 65535; V[i] = (mv[i * 4] * 256 + mv[i * 4 + 1]) / 65535; E[i] = ms[i * 4 + 2] / 255; }
-        MUGS[v] = { base: base, S: S, V: V, E: E, tint: tn }; // tint: R = shading, G = highlight, A = handle/inside mask
+        MUGS[v] = { base: base, S: S, V: V, E: E, tint: tn }; // tint: R = shading, A = handle/inside coverage
       });
     }));
     return mugsP;
@@ -161,8 +161,8 @@
         var cr = parseInt(mc.hex.slice(1, 3), 16), cg = parseInt(mc.hex.slice(3, 5), 16), cb = parseInt(mc.hex.slice(5, 7), 16), t = m.tint;
         for (var j = 0, nn = 620 * 620; j < nn; j++) {
           var q = j * 4, a = t[q + 3] / 255; if (!a) continue;
-          var L = t[q] / 255 * 1.25, H = t[q + 1] / 255, k = L * (1 - H), w = 255 * H;
-          o[q] = o[q] * (1 - a) + Math.min(255, cr * k + w) * a; o[q + 1] = o[q + 1] * (1 - a) + Math.min(255, cg * k + w) * a; o[q + 2] = o[q + 2] * (1 - a) + Math.min(255, cb * k + w) * a;
+          var L = t[q] / 255 * 1.3; // shading of Printrove's coloured-mug photo, soft edges in the alpha
+          o[q] = o[q] * (1 - a) + Math.min(255, cr * L) * a; o[q + 1] = o[q + 1] * (1 - a) + Math.min(255, cg * L) * a; o[q + 2] = o[q + 2] * (1 - a) + Math.min(255, cb * L) * a;
         }
       }
       ctx.putImageData(img, 0, 0);

diff --git a/assets/mugdesign.js b/assets/mugdesign.js
@@ -134,7 +134,7 @@
       return Promise.all([loadImg("/assets/custommug/mug-" + v + ".jpg"), loadImg("/assets/custommug/map-" + v + "-s.png"), loadImg("/assets/custommug/map-" + v + "-v.png"), loadImg("/assets/custommug/tint-" + v + ".png")]).then(function (r) {
         var base = pixels(r[0]), ms = pixels(r[1]), mv = pixels(r[2]), tn = pixels(r[3]), n = 620 * 620, S = new Float32Array(n), V = new Float32Array(n), E = new Float32Array(n);
         for (var i = 0; i < n; i++) { S[i] = (ms[i * 4] * 256 + ms[i * 4 + 1]) / 65535; V[i] = (mv[i * 4] * 256 + mv[i * 4 + 1]) / 65535; E[i] = ms[i * 4 + 2] / 255; }
-        MUGS[v] = { base: base, S: S, V: V, E: E, tint: tn }; // tint: R = shading, G = highlight, A = handle/inside mask
+        MUGS[v] = { base: base, S: S, V: V, E: E, tint: tn }; // tint: R = shading, A = handle/inside coverage
       });
     }));
     return mugsP;
@@ -161,8 +161,8 @@
         var cr = parseInt(mc.hex.slice(1, 3), 16), cg = parseInt(mc.hex.slice(3, 5), 16), cb = parseInt(mc.hex.slice(5, 7), 16), t = m.tint;
         for (var j = 0, nn = 620 * 620; j < nn; j++) {
           var q = j * 4, a = t[q + 3] / 255; if (!a) continue;
-          var L = t[q] / 255 * 1.25, H = t[q + 1] / 255, k = L * (1 - H), w = 255 * H;
-          o[q] = o[q] * (1 - a) + Math.min(255, cr * k + w) * a; o[q + 1] = o[q + 1] * (1 - a) + Math.min(255, cg * k + w) * a; o[q + 2] = o[q + 2] * (1 - a) + Math.min(255, cb * k + w) * a;
+          var L = t[q] / 255 * 1.3; // shading of Printrove's coloured-mug photo, soft edges in the alpha
+          o[q] = o[q] * (1 - a) + Math.min(255, cr * L) * a; o[q + 1] = o[q + 1] * (1 - a) + Math.min(255, cg * L) * a; o[q + 2] = o[q + 2] * (1 - a) + Math.min(255, cb * L) * a;
         }
       }
       ctx.putImageData(img, 0, 0);
